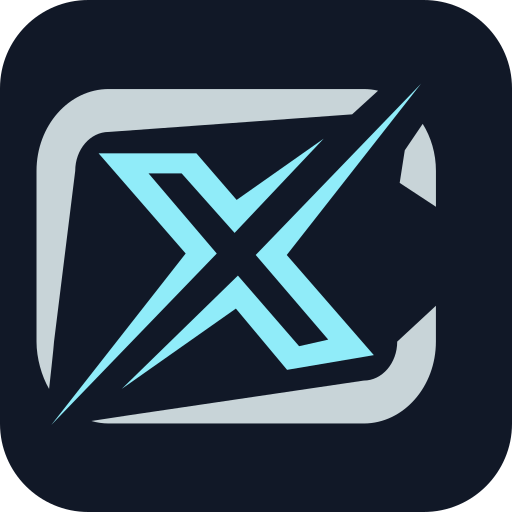
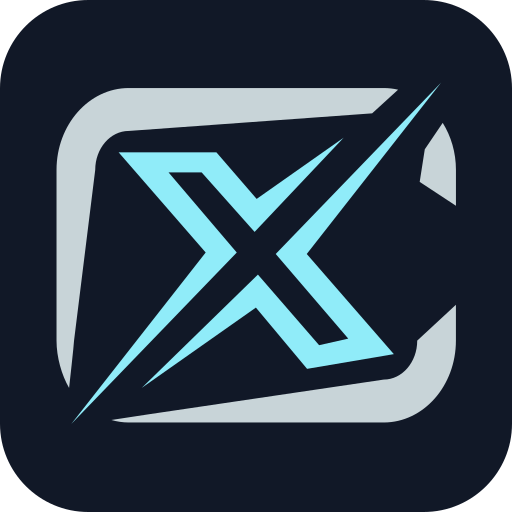
chore(Comix): bump to 1.0.0-alpha.6
Fixes long series failing to load their chapters. The site paginates chapters
20 at a time and signs each request URL, so pages cannot be fetched directly —
its own pagination control has to be driven. When that control could not be
found the capture resolved with null, discarding the chapters already collected,
which is why short series worked and long ones failed outright. The capture now
always returns what it has, and only errors when nothing at all was collected.
The control is also located relative to the chapter links rather than by
scanning every button, since the comment thread on the same page has its own
pagination that the old selector could match first.

Reverts the redirect following added in alpha.5. The HAR shows the site never
issues one for a series page, and the reported error came from the WebView
layer after the fetch had already succeeded, so it addressed nothing.

Adds comix.ws as a fallback origin. Both domains are one backend, verified by
identical chapter ids and hids, so a failed request retries against the other
and the working origin is remembered for the session. A CloudflareError is
rethrown rather than retried, since the mirror would only issue a second
challenge.

Recentres the icon: the mark is asymmetric within its own coordinate space, so
a viewBox centred on the path bounds rendered 36px from the left and 76px from
the right. The offset is measured, not eyeballed, and documented.

Changed region(s): [[0.0625, 0.1562, 0.9062, 0.8438], [0.1875, 0.7812, 0.7188, 0.8438], [0.4688, 0.75, 0.6875, 0.7812]]

diff --git a/src/Comix/webview.ts b/src/Comix/webview.ts
@@ -2,7 +2,7 @@
 /* Copyright © 2026 Kodama */
 
 import { DOMAIN, type ChapterPayload, type PagesPayload } from "./models.ts";
-import { cookieStorage, fetchText } from "./network.ts";
+import { cookieStorage, fetchText, origin } from "./network.ts";
 
 /**
  * Search, chapter lists and page lists are signed with a per-request token and
@@ -26,10 +26,14 @@ function injectBootstrap(html: string, bootstrap: string): string {
 async function capture<T>(pageUrl: string, bootstrap: string): Promise<T> {
   const html = injectBootstrap(await fetchText(pageUrl), bootstrap);
 
+  // fetchText may have failed over to the mirror; the WebView has to resolve the
+  // page's own scripts and XHRs against whichever origin actually answered.
+  const resolved = pageUrl.replace(DOMAIN, origin());
+
   const { result } = await Application.executeInWebView({
     source: {
       html,
-      baseUrl: pageUrl,
+      baseUrl: resolved,
       loadCSS: false,
       loadImages: false,
       // Must match the UA the Cloudflare clearance was issued to, or the page's
@@ -37,11 +41,11 @@ async function capture<T>(pageUrl: string, bootstrap: string): Promise<T> {
       userAgent: await Application.getDefaultUserAgent(),
     },
     inject: "return window.__comixCapture__",
-    storage: { cookies: cookieStorage.cookiesForUrl(`${DOMAIN}/`) },
+    storage: { cookies: cookieStorage.cookiesForUrl(`${origin()}/`) },
   });
 
   if (result === undefined || result === null) {
-    throw new Error(`Comix: the page at ${pageUrl} produced no data`);
+    throw new Error(`Comix: the page at ${resolved} produced no data`);
   }
   return result as T;
 }
@@ -51,13 +55,13 @@ async function capture<T>(pageUrl: string, bootstrap: string): Promise<T> {
  * expression awaits. `accept` returns the value to resolve with, or undefined to
  * keep waiting.
  */
-function bootstrapFor(acceptBody: string, afterAccept = ""): string {
+function bootstrapFor(acceptBody: string, afterAccept = "", onTimeout = "null"): string {
   return `(function () {
     var settle;
     window.__comixCapture__ = new Promise(function (resolve) { settle = resolve; });
     var done = false;
     function finish(value) { if (!done) { done = true; settle(value); } }
-    setTimeout(function () { finish(null); }, ${CAPTURE_TIMEOUT_MS});
+    setTimeout(function () { finish(${onTimeout}); }, ${CAPTURE_TIMEOUT_MS});
     var accept = function (parsed, raw) { ${acceptBody} };
     var original = JSON.parse;
     JSON.parse = new Proxy(original, {
@@ -72,41 +76,65 @@ function bootstrapFor(acceptBody: string, afterAccept = ""): string {
 }
 
 export async function captureChapterList(hid: string): Promise<ChapterPayload[]> {
-  // Pagination clicks the site's own Next control: the request URL carries the
-  // per-request signature, so rewriting it to jump pages returns 403.
+  // The site serves 20 chapters per request and the URL carries a signature bound
+  // to its exact query, so pages cannot be requested directly — the site's own
+  // pagination control has to be driven. Whatever has been captured is always
+  // returned, even if advancing stalls: a partial chapter list beats none.
   const bootstrap = bootstrapFor(
     `
       var result = parsed && parsed.result;
       if (!result || !Array.isArray(result.items)) return;
       if (!result.items.length || result.items[0].mangaId === undefined) return;
+
       var meta = result.meta || {};
       var page = meta.page || 1;
       if (window.__comixPages__[page]) return;
       window.__comixPages__[page] = raw;
-      if (meta.hasNext || page < (meta.lastPage || page)) { window.__comixNext__(page); }
-      else { finish(Object.keys(window.__comixPages__).sort(function (a, b) { return a - b; })
-        .map(function (key) { return window.__comixPages__[key]; })); }
+
+      if (meta.hasNext || page < (meta.lastPage || page)) { window.__comixAdvance__(page); }
+      else { finish(window.__comixCollect__()); }
     `,
     `
       window.__comixPages__ = {};
-      window.__comixNext__ = function (page) {
+      window.__comixCollect__ = function () {
+        return Object.keys(window.__comixPages__)
+          .sort(function (a, b) { return a - b; })
+          .map(function (key) { return window.__comixPages__[key]; });
+      };
+
+      // The chapter list shares the page with a comment thread that has its own
+      // pagination, so controls are located relative to the chapter links rather
+      // than by scanning every button on the page.
+      function chapterPager() {
+        var link = document.querySelector('a[href*="/title/"][href*="chapter"]');
+        for (var node = link; node; node = node.parentElement) {
+          var buttons = node.querySelectorAll("button:not([disabled])");
+          if (buttons.length > 1) return buttons;
+        }
+        return [];
+      }
+
+      window.__comixAdvance__ = function (page) {
         var tries = 0;
         var timer = setInterval(function () {
-          var buttons = Array.prototype.slice.call(document.querySelectorAll("button"))
-            .filter(function (button) { return !button.disabled; });
+          var buttons = Array.prototype.slice.call(chapterPager());
           var next = buttons.filter(function (button) {
             var label = [button.getAttribute("aria-label"), button.getAttribute("title"),
               button.textContent].filter(Boolean).join(" ");
-            return /\\bnext\\b/i.test(label) || Number((button.textContent || "").trim()) === page + 1;
+            return /\\bnext\\b/i.test(label)
+              || Number((button.textContent || "").trim()) === page + 1;
           })[0];
+
           if (next) { clearInterval(timer); next.click(); }
-          else if (++tries > 50) { clearInterval(timer); finish(null); }
+          else if (++tries > 60) { clearInterval(timer); finish(window.__comixCollect__()); }
         }, 100);
       };
     `,
+    "window.__comixCollect__()",
   );
 
   const raw = await capture<string[]>(`${DOMAIN}/title/${hid}`, bootstrap);
+  if (raw.length === 0) throw new Error(`Comix: no chapters were returned for ${hid}`);
   return raw.map((payload) => JSON.parse(payload) as ChapterPayload);
 }
 

diff --git a/src/Comix/network.ts b/src/Comix/network.ts
@@ -6,13 +6,12 @@ import {
   CloudflareError,
   CookieStorageInterceptor,
   PaperbackInterceptor,
-  URL,
   type Request,
   type Response,
 } from "@paperback/types";
 
 import { applyKeystream, parseScrambleConfig } from "./descramble.ts";
-import { DOMAIN } from "./models.ts";
+import { DOMAIN, MIRROR_DOMAIN } from "./models.ts";
 
 export const rateLimiter = new BasicRateLimiter("comix", {
   numberOfRequests: 15,
@@ -128,42 +127,42 @@ export async function fetchText(url: string): Promise<string> {
   }
 }
 
-const MAX_REDIRECTS = 3;
+// Whichever origin last answered is tried first, so a single outage costs one
+// failed request rather than one per call for the rest of the session.
+let preferredOrigin = DOMAIN;
 
-function locationOf(response: Response): string | undefined {
-  const key = Object.keys(response.headers).find((name) => name.toLowerCase() === "location");
-  return key === undefined ? undefined : response.headers[key];
+/** The origin every request and WebView load should currently be built against. */
+export function origin(): string {
+  return preferredOrigin;
 }
 
-/**
- * The platform hands 3xx back rather than following it, and a series requested by
- * bare hid redirects to its `<hid>-<slug>` canonical form — so not following
- * these is the difference between a title loading and silently failing.
- * Location may be relative, and is resolved against the host that issued it.
- */
-async function requestText(url: string): Promise<string> {
-  let target = url;
+function onOrigin(url: string, target: string): string {
+  return url.replace(DOMAIN, target).replace(MIRROR_DOMAIN, target);
+}
 
-  for (let redirects = 0; redirects <= MAX_REDIRECTS; redirects += 1) {
-    const [response, data] = await Application.scheduleRequest({ url: target, method: "GET" });
-
-    if (response.status >= 300 && response.status < 400) {
-      const location = locationOf(response);
-      if (!location) throw new Error(`Comix sent HTTP ${response.status} with no location`);
-
-      target = /^https?:\/\//.test(location)
-        ? location
-        : `${new URL(target).protocol}//${new URL(target).hostname}${
-            location.startsWith("/") ? "" : "/"
-          }${location}`;
-      continue;
-    }
-
-    if (response.status < 200 || response.status >= 300) {
-      throw new Error(`Comix returned HTTP ${response.status} for ${target}`);
-    }
-    return Application.arrayBufferToUTF8String(data);
+async function attempt(url: string): Promise<string> {
+  const [response, data] = await Application.scheduleRequest({ url, method: "GET" });
+  if (response.status < 200 || response.status >= 300) {
+    throw new Error(`Comix returned HTTP ${response.status} for ${url}`);
   }
+  return Application.arrayBufferToUTF8String(data);
+}
 
-  throw new Error(`Comix redirected more than ${MAX_REDIRECTS} times from ${url}`);
+async function requestText(url: string): Promise<string> {
+  const origins = preferredOrigin === DOMAIN ? [DOMAIN, MIRROR_DOMAIN] : [MIRROR_DOMAIN, DOMAIN];
+  let lastError: unknown;
+
+  for (const candidate of origins) {
+    try {
+      const text = await attempt(onOrigin(url, candidate));
+      preferredOrigin = candidate;
+      return text;
+    } catch (error) {
+      // A challenge must surface to the app rather than being retried away on
+      // the mirror, which would only earn a second challenge.
+      if (error instanceof CloudflareError) throw error;
+      lastError = error;
+    }
+  }
+  throw lastError instanceof Error ? lastError : new Error(`Comix: ${String(lastError)}`);
 }

diff --git a/src/Comix/models.ts b/src/Comix/models.ts
@@ -3,6 +3,11 @@
 
 export const DOMAIN = "https://comix.to";
 
+// comix.ws is the same backend behind a second domain — verified by both serving
+// identical chapter ids and hids — so it is a drop-in origin when .to is
+// unreachable, not a separate catalogue. See docs/Comix/site-recon.md.
+export const MIRROR_DOMAIN = "https://comix.ws";
+
 // The site keys series by `hid` everywhere a URL is built, but a chapter payload's
 // own `mangaId` is the *numeric* id. They are not interchangeable: `mangaId` in
 // Paperback terms is always the hid. See docs/Comix/api-shapes.md.

diff --git a/src/Comix/pbconfig.ts b/src/Comix/pbconfig.ts
@@ -7,7 +7,7 @@ export default {
   name: "Comix",
   description:
     "Read comics from comix.to. Requires solving a Cloudflare check on first use; the app will prompt.",
-  version: "1.0.0-alpha.5",
+  version: "1.0.0-alpha.6",
   icon: "icon-v2.png",
   language: "en",
   contentRating: ContentRating.MATURE,

diff --git a/docs/Comix/icon.md b/docs/Comix/icon.md
@@ -39,6 +39,20 @@ app's theming, which only helps when the mark has contrast to spare. A backing p
 
 If the real brand values ever surface, they belong here and in `icon.svg`.
 
+## Centring
+
+The mark is not symmetric within its own coordinate space, so a viewBox centred on the path bounds
+still renders visibly off. The viewBox is offset to compensate, verified by measuring the rendered
+margins rather than by eye:
+
+| Version                    | Left | Right | Imbalance |
+| -------------------------- | ---- | ----- | --------- |
+| `viewBox="-11 -25 …"`      | 36px | 76px  | 40px      |
+| `viewBox="-17.8 -24.66 …"` | 56px | 56px  | 0px       |
+
+If the artwork is ever replaced, re-measure — the offset is specific to these paths, not a general
+correction.
+
 ## Regenerating
 
 512x512 to match the other sources:
